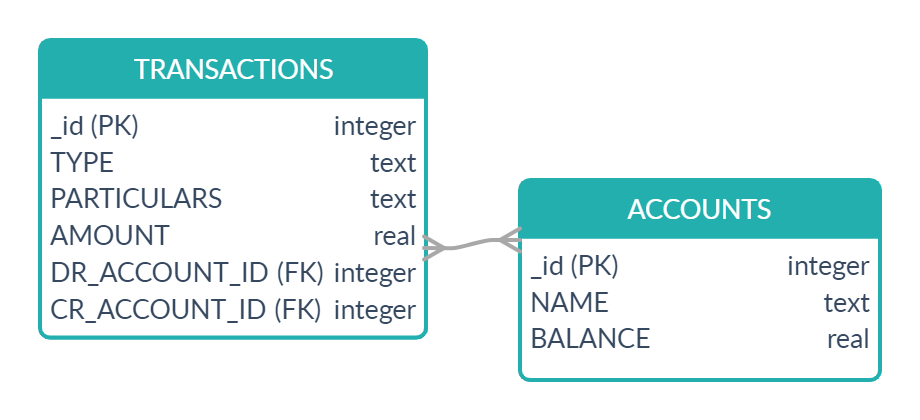
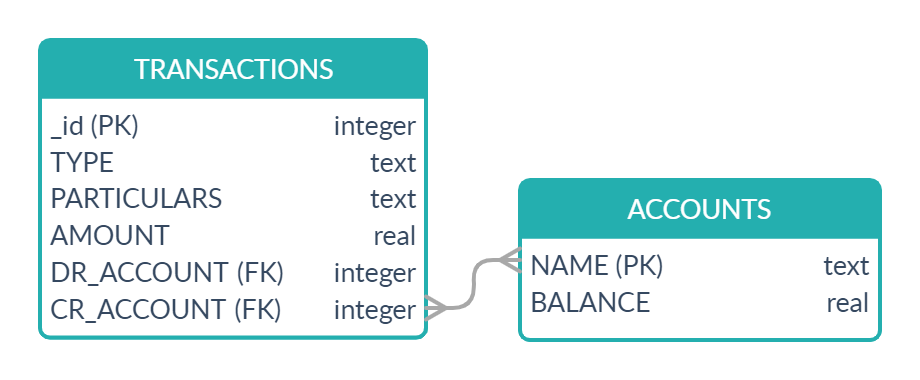
db redesign

diff --git a/application/app/src/main/java/com/himanshu/buckcounter/business/DatabaseHelper.java b/application/app/src/main/java/com/himanshu/buckcounter/business/DatabaseHelper.java
@@ -38,8 +38,7 @@ public class DatabaseHelper extends SQLiteOpenHelper {
     @Override
     public void onCreate(SQLiteDatabase sqLiteDatabase) {
         sqLiteDatabase.execSQL("create table " + TABLE_ACCOUNTS + "("
-                + KEY_ACCOUNTS_ID + " integer PRIMARY KEY AUTOINCREMENT,"
-                + KEY_ACCOUNTS_NAME + " text NOT NULL UNIQUE,"
+                + KEY_ACCOUNTS_NAME + " text PRIMARY KEY,"
                 + KEY_ACCOUNTS_BALANCE + " real NOT  NULL"
                 + ")"
         );
@@ -49,20 +48,20 @@ public class DatabaseHelper extends SQLiteOpenHelper {
                 + KEY_TRANSACTIONS_PARTICULARS + " text,"
                 + KEY_TRANSACTIONS_AMOUNT + " real NOT NULL,"
                 + KEY_TRANSACTIONS_TIMESTAMP + " datetime NOT NULL,"
-                + KEY_TRANSACTIONS_DR_ACCOUNT_ID + " integer,"
-                + KEY_TRANSACTIONS_CR_ACCOUNT_ID + " integer,"
-                + "FOREIGN KEY(" + KEY_TRANSACTIONS_DR_ACCOUNT_ID + ") REFERENCES " + TABLE_ACCOUNTS + "(" + KEY_ACCOUNTS_ID + "),"
-                + "FOREIGN KEY(" + KEY_TRANSACTIONS_CR_ACCOUNT_ID + ") REFERENCES " + TABLE_ACCOUNTS + "(" + KEY_ACCOUNTS_ID + ")"
+                + KEY_TRANSACTIONS_DR_ACCOUNT + " text,"
+                + KEY_TRANSACTIONS_CR_ACCOUNT + " text,"
+                + "FOREIGN KEY(" + KEY_TRANSACTIONS_DR_ACCOUNT + ") REFERENCES " + TABLE_ACCOUNTS + "(" + KEY_ACCOUNTS_NAME + "),"
+                + "FOREIGN KEY(" + KEY_TRANSACTIONS_CR_ACCOUNT + ") REFERENCES " + TABLE_ACCOUNTS + "(" + KEY_ACCOUNTS_NAME + ")"
                 + ")"
         );
         sqLiteDatabase.execSQL("create trigger if not exists " + TRIGGER_TRANSACTIONS_INSERT
                 + " after insert on " + TABLE_TRANSACTIONS + " for each row"
                 + " begin"
                 + " update " + TABLE_ACCOUNTS + " set " + KEY_ACCOUNTS_BALANCE + " = " + KEY_ACCOUNTS_BALANCE + " + " + NEW + KEY_TRANSACTIONS_AMOUNT
-                + " where " + KEY_ACCOUNTS_ID + " = " + NEW + KEY_TRANSACTIONS_DR_ACCOUNT_ID
+                + " where " + KEY_ACCOUNTS_NAME + " = " + NEW + KEY_TRANSACTIONS_DR_ACCOUNT
                 + " and (" + NEW + KEY_TRANSACTIONS_TYPE + " = '" + Transaction.TransactionType.DR.getName() + "' or " + NEW + KEY_TRANSACTIONS_TYPE + " = '" + Transaction.TransactionType.CONTRA.getName() + "');"
                 + " update " + TABLE_ACCOUNTS + " set " + KEY_ACCOUNTS_BALANCE + " = " + KEY_ACCOUNTS_BALANCE + " - " + NEW + KEY_TRANSACTIONS_AMOUNT
-                + " where " + KEY_ACCOUNTS_ID + " = " + NEW + KEY_TRANSACTIONS_CR_ACCOUNT_ID
+                + " where " + KEY_ACCOUNTS_NAME + " = " + NEW + KEY_TRANSACTIONS_CR_ACCOUNT
                 + " and (" + NEW + KEY_TRANSACTIONS_TYPE + " = '" + Transaction.TransactionType.CR.getName() + "' or " + NEW + KEY_TRANSACTIONS_TYPE + " = '" + Transaction.TransactionType.CONTRA.getName() + "');"
                 + " end"
         );
@@ -70,10 +69,10 @@ public class DatabaseHelper extends SQLiteOpenHelper {
                 + " after delete on " + TABLE_TRANSACTIONS + " for each row"
                 + " begin"
                 + " update " + TABLE_ACCOUNTS + " set " + KEY_ACCOUNTS_BALANCE + " = " + KEY_ACCOUNTS_BALANCE + " - " + OLD + KEY_TRANSACTIONS_AMOUNT
-                + " where " + KEY_ACCOUNTS_ID + " = " + OLD + KEY_TRANSACTIONS_DR_ACCOUNT_ID
+                + " where " + KEY_ACCOUNTS_NAME + " = " + OLD + KEY_TRANSACTIONS_DR_ACCOUNT
                 + " and (" + OLD + KEY_TRANSACTIONS_TYPE + " = '" + Transaction.TransactionType.DR.getName() + "' or " + OLD + KEY_TRANSACTIONS_TYPE + " = '" + Transaction.TransactionType.CONTRA.getName() + "');"
                 + " update " + TABLE_ACCOUNTS + " set " + KEY_ACCOUNTS_BALANCE + " = " + KEY_ACCOUNTS_BALANCE + " + " + OLD + KEY_TRANSACTIONS_AMOUNT
-                + " where " + KEY_ACCOUNTS_ID + " = " + OLD + KEY_TRANSACTIONS_CR_ACCOUNT_ID
+                + " where " + KEY_ACCOUNTS_NAME + " = " + OLD + KEY_TRANSACTIONS_CR_ACCOUNT
                 + " and (" + OLD + KEY_TRANSACTIONS_TYPE + " = '" + Transaction.TransactionType.CR.getName() + "' or " + OLD + KEY_TRANSACTIONS_TYPE + " = '" + Transaction.TransactionType.CONTRA.getName() + "');"
                 + " end"
         );
@@ -81,10 +80,10 @@ public class DatabaseHelper extends SQLiteOpenHelper {
                 + " after update of " + KEY_TRANSACTIONS_AMOUNT + " on " + TABLE_TRANSACTIONS + " for each row"
                 + " begin"
                 + " update " + TABLE_ACCOUNTS + " set " + KEY_ACCOUNTS_BALANCE + " = " + KEY_ACCOUNTS_BALANCE + " - " + OLD + KEY_TRANSACTIONS_AMOUNT + " + " + NEW + KEY_TRANSACTIONS_AMOUNT
-                + " where " + KEY_ACCOUNTS_ID + " = " + OLD + KEY_TRANSACTIONS_DR_ACCOUNT_ID
+                + " where " + KEY_ACCOUNTS_NAME + " = " + OLD + KEY_TRANSACTIONS_DR_ACCOUNT
                 + " and (" + OLD + KEY_TRANSACTIONS_TYPE + " = '" + Transaction.TransactionType.DR.getName() + "' or " + OLD + KEY_TRANSACTIONS_TYPE + " = '" + Transaction.TransactionType.CONTRA.getName() + "');"
                 + " update " + TABLE_ACCOUNTS + " set " + KEY_ACCOUNTS_BALANCE + " = " + KEY_ACCOUNTS_BALANCE + " + " + OLD + KEY_TRANSACTIONS_AMOUNT + " - " + NEW + KEY_TRANSACTIONS_AMOUNT
-                + " where " + KEY_ACCOUNTS_ID + " = " + OLD + KEY_TRANSACTIONS_CR_ACCOUNT_ID
+                + " where " + KEY_ACCOUNTS_NAME + " = " + OLD + KEY_TRANSACTIONS_CR_ACCOUNT
                 + " and (" + OLD + KEY_TRANSACTIONS_TYPE + " = '" + Transaction.TransactionType.CR.getName() + "' or " + OLD + KEY_TRANSACTIONS_TYPE + " = '" + Transaction.TransactionType.CONTRA.getName() + "');"
                 + " end"
         );
@@ -119,10 +118,10 @@ public class DatabaseHelper extends SQLiteOpenHelper {
             contentValues.clear();
         }
         ArrayList<Transaction> transactions = new ArrayList<>();
-        transactions.add(new Transaction(Transaction.TransactionType.DR, "opening balance", 230.0, new Date(), getAccountIdByName("cash")));
-        transactions.add(new Transaction(Transaction.TransactionType.CR, "opening balance", 3000.0, new Date(), getAccountIdByName("credit card")));
-        transactions.add(new Transaction(Transaction.TransactionType.DR, "opening balance", 2500.0, new Date(), getAccountIdByName("bank")));
-        transactions.add(new Transaction(Transaction.TransactionType.CONTRA, "ATM Withdrawal", 500.0, new Date(), getAccountIdByName("cash"), getAccountIdByName("bank")));
+        transactions.add(new Transaction(Transaction.TransactionType.DR, "opening balance", 230.0, new Date(), "cash"));
+        transactions.add(new Transaction(Transaction.TransactionType.CR, "opening balance", 3000.0, new Date(), "credit card"));
+        transactions.add(new Transaction(Transaction.TransactionType.DR, "opening balance", 2500.0, new Date(), "bank"));
+        transactions.add(new Transaction(Transaction.TransactionType.CONTRA, "ATM Withdrawal", 500.0, new Date(), "cash", "bank"));
         for (Transaction transaction : transactions) {
             contentValues.put(KEY_TRANSACTIONS_TYPE, transaction.getTransactionType().getName());
             contentValues.put(KEY_TRANSACTIONS_PARTICULARS, transaction.getParticulars());
@@ -130,10 +129,10 @@ public class DatabaseHelper extends SQLiteOpenHelper {
             Date date = new Date();
             contentValues.put(KEY_TRANSACTIONS_TIMESTAMP, dateFormat.format(date));
             if (transaction.getTransactionType() == Transaction.TransactionType.DR || transaction.getTransactionType() == Transaction.TransactionType.CONTRA) {
-                contentValues.put(KEY_TRANSACTIONS_DR_ACCOUNT_ID, transaction.getDebitAccountId());
+                contentValues.put(KEY_TRANSACTIONS_DR_ACCOUNT, transaction.getDebitAccount());
             }
             if (transaction.getTransactionType() == Transaction.TransactionType.CR || transaction.getTransactionType() == Transaction.TransactionType.CONTRA) {
-                contentValues.put(KEY_TRANSACTIONS_CR_ACCOUNT_ID, transaction.getCreditAccountId());
+                contentValues.put(KEY_TRANSACTIONS_CR_ACCOUNT, transaction.getCreditAccount());
             }
             sqLiteDatabase.insert(TABLE_TRANSACTIONS, null, contentValues);
             contentValues.clear();
@@ -156,30 +155,14 @@ public class DatabaseHelper extends SQLiteOpenHelper {
         return super.getReadableDatabase();
     }
 
-    public int getAccountIdByName(String name) {
-        SQLiteDatabase sqLiteDatabase = getReadableDatabase();
-        Cursor cursor = sqLiteDatabase.rawQuery("select " + KEY_ACCOUNTS_ID + " from " + TABLE_ACCOUNTS +" where " + KEY_ACCOUNTS_NAME + " = ?", new String[]{name});
-        if (cursor.getCount() == 1 && cursor.moveToFirst()) {
-            return cursor.getInt(cursor.getColumnIndex(KEY_ACCOUNTS_ID));
-        }
-        return -1;
-    }
-
-    public String getAccountNameByID(int id) {
-        SQLiteDatabase sqLiteDatabase = getReadableDatabase();
-        Cursor cursor = sqLiteDatabase.rawQuery("select " + KEY_ACCOUNTS_NAME + " from " + TABLE_ACCOUNTS + " where " + KEY_ACCOUNTS_ID + " = ?", new String[]{String.valueOf(id)});
-        if (cursor.getCount() == 1 && cursor.moveToFirst()) {
-            return cursor.getString(cursor.getColumnIndex(KEY_ACCOUNTS_NAME));
-        }
-        return null;
-    }
-
     public double getTotalAccountBalance(){
+        double total = 0.0;
         SQLiteDatabase sqLiteDatabase = getReadableDatabase();
         Cursor cursor = sqLiteDatabase.rawQuery("select sum(" + KEY_ACCOUNTS_BALANCE + ") from " + TABLE_ACCOUNTS, null);
         if(cursor.moveToFirst()){
-            return cursor.getDouble(0);
+            total = cursor.getDouble(0);
         }
-        return 0;
+        cursor.close();
+        return total;
     }
 }

diff --git a/application/app/src/main/java/com/himanshu/buckcounter/beans/Transaction.java b/application/app/src/main/java/com/himanshu/buckcounter/beans/Transaction.java
@@ -8,58 +8,58 @@ public class Transaction {
     private String particulars;
     private double amount;
     private Date timestamp;
-    private int debitAccountId;
-    private int creditAccountId;
+    private String debitAccount;
+    private String creditAccount;
 
     public Transaction() {
     }
 
-    public Transaction(int id, TransactionType transactionType, String particulars, double amount, Date timestamp, int accountId) {
+    public Transaction(int id, TransactionType transactionType, String particulars, double amount, Date timestamp, String account) {
         this.id = id;
         this.transactionType = transactionType;
         this.particulars = particulars;
         this.amount = amount;
         this.timestamp = timestamp;
         if (transactionType == TransactionType.DR) {
-            this.debitAccountId = accountId;
+            this.debitAccount = account;
         } else if (transactionType == TransactionType.CR) {
-            this.creditAccountId = accountId;
+            this.creditAccount = account;
         } else if (transactionType == TransactionType.CONTRA) {
             throw new IllegalArgumentException("Use the constructor Transaction(int, TransactionType, String, double, Date, int, int) for TransactionType CONTRA");
         }
     }
 
-    public Transaction(TransactionType transactionType, String particulars, double amount, Date timestamp, int accountId) {
+    public Transaction(TransactionType transactionType, String particulars, double amount, Date timestamp, String account) {
         this.transactionType = transactionType;
         this.particulars = particulars;
         this.amount = amount;
         this.timestamp = timestamp;
         if (transactionType == TransactionType.DR) {
-            this.debitAccountId = accountId;
+            this.debitAccount = account;
         } else if (transactionType == TransactionType.CR) {
-            this.creditAccountId = accountId;
+            this.creditAccount = account;
         }  else if (transactionType == TransactionType.CONTRA) {
             throw new IllegalArgumentException("Use the constructor Transaction(TransactionType, String, double, Date, int, int) for TransactionType CONTRA");
         }
     }
 
-    public Transaction(TransactionType transactionType, String particulars, double amount, Date timestamp, int debitAccountId, int creditAccountId) {
+    public Transaction(TransactionType transactionType, String particulars, double amount, Date timestamp, String debitAccount, String creditAccount) {
         this.transactionType = transactionType;
         this.particulars = particulars;
         this.amount = amount;
         this.timestamp = timestamp;
-        this.debitAccountId = debitAccountId;
-        this.creditAccountId = creditAccountId;
+        this.debitAccount = debitAccount;
+        this.creditAccount = creditAccount;
     }
 
-    public Transaction(int id, TransactionType transactionType, String particulars, double amount, Date timestamp, int debitAccountId, int creditAccountId) {
+    public Transaction(int id, TransactionType transactionType, String particulars, double amount, Date timestamp, String debitAccount, String creditAccount) {
         this.id = id;
         this.transactionType = transactionType;
         this.particulars = particulars;
         this.amount = amount;
         this.timestamp = timestamp;
-        this.debitAccountId = debitAccountId;
-        this.creditAccountId = creditAccountId;
+        this.debitAccount = debitAccount;
+        this.creditAccount = creditAccount;
     }
 
     public int getId() {
@@ -102,6 +102,22 @@ public class Transaction {
         this.timestamp = timestamp;
     }
 
+    public String getDebitAccount() {
+        return debitAccount;
+    }
+
+    public void setDebitAccount(String debitAccount) {
+        this.debitAccount = debitAccount;
+    }
+
+    public String getCreditAccount() {
+        return creditAccount;
+    }
+
+    public void setCreditAccount(String creditAccount) {
+        this.creditAccount = creditAccount;
+    }
+
     @Override
     public String toString() {
         return "Transaction{" +
@@ -110,25 +126,9 @@ public class Transaction {
                 ", particulars='" + particulars + '\'' +
                 ", amount=" + amount +
                 ", timestamp=" + timestamp +
-                ", debitAccountId=" + debitAccountId +
-                ", creditAccountId=" + creditAccountId +
+                ", debitAccount=" + debitAccount +
+                ", creditAccount=" + creditAccount +
                 '}';
-    }
-
-    public int getDebitAccountId() {
-        return debitAccountId;
-    }
-
-    public void setDebitAccountId(int debitAccountId) {
-        this.debitAccountId = debitAccountId;
-    }
-
-    public int getCreditAccountId() {
-        return creditAccountId;
-    }
-
-    public void setCreditAccountId(int creditAccountId) {
-        this.creditAccountId = creditAccountId;
     }
 
     public enum TransactionType {

diff --git a/application/app/src/main/java/com/himanshu/buckcounter/business/Constants.java b/application/app/src/main/java/com/himanshu/buckcounter/business/Constants.java
@@ -6,7 +6,6 @@ public class Constants {
     static final String DB_NAME = "BUCK_COUNTER_DB";
     static final String TABLE_ACCOUNTS = "ACCOUNTS";
     static final String TABLE_TRANSACTIONS = "TRANSACTIONS";
-    static final String KEY_ACCOUNTS_ID = "_id";
     static final String KEY_ACCOUNTS_NAME = "NAME";
     static final String KEY_ACCOUNTS_BALANCE = "BALANCE";
     static final String KEY_TRANSACTIONS_ID = "_id";
@@ -14,8 +13,8 @@ public class Constants {
     static final String KEY_TRANSACTIONS_PARTICULARS = "PARTICULARS";
     static final String KEY_TRANSACTIONS_AMOUNT = "AMOUNT";
     static final String KEY_TRANSACTIONS_TIMESTAMP = "TIMESTAMP";
-    static final String KEY_TRANSACTIONS_DR_ACCOUNT_ID = "DR_ACCOUNT_ID";
-    static final String KEY_TRANSACTIONS_CR_ACCOUNT_ID = "CR_ACCOUNT_ID";
+    static final String KEY_TRANSACTIONS_DR_ACCOUNT = "DR_ACCOUNT";
+    static final String KEY_TRANSACTIONS_CR_ACCOUNT = "CR_ACCOUNT";
     static final String NEW = "NEW.";
     static final String OLD = "OLD.";
     static final String TRIGGER_TRANSACTIONS_INSERT = "TRIGGER_TRANSACTIONS_INSERT";

diff --git a/application/app/src/main/java/com/himanshu/buckcounter/beans/Account.java b/application/app/src/main/java/com/himanshu/buckcounter/beans/Account.java
@@ -1,7 +1,6 @@
 package com.himanshu.buckcounter.beans;
 
 public class Account {
-    private int id;
     private String name;
     private double balance;
 
@@ -15,20 +14,6 @@ public class Account {
     public Account(String name) {
         this.name = name;
         this.balance = 0;
-    }
-
-    public Account(int id, String name, double balance) {
-        this.id = id;
-        this.name = name;
-        this.balance = balance;
-    }
-
-    public int getId() {
-        return id;
-    }
-
-    public void setId(int id) {
-        this.id = id;
     }
 
     public String getName() {
